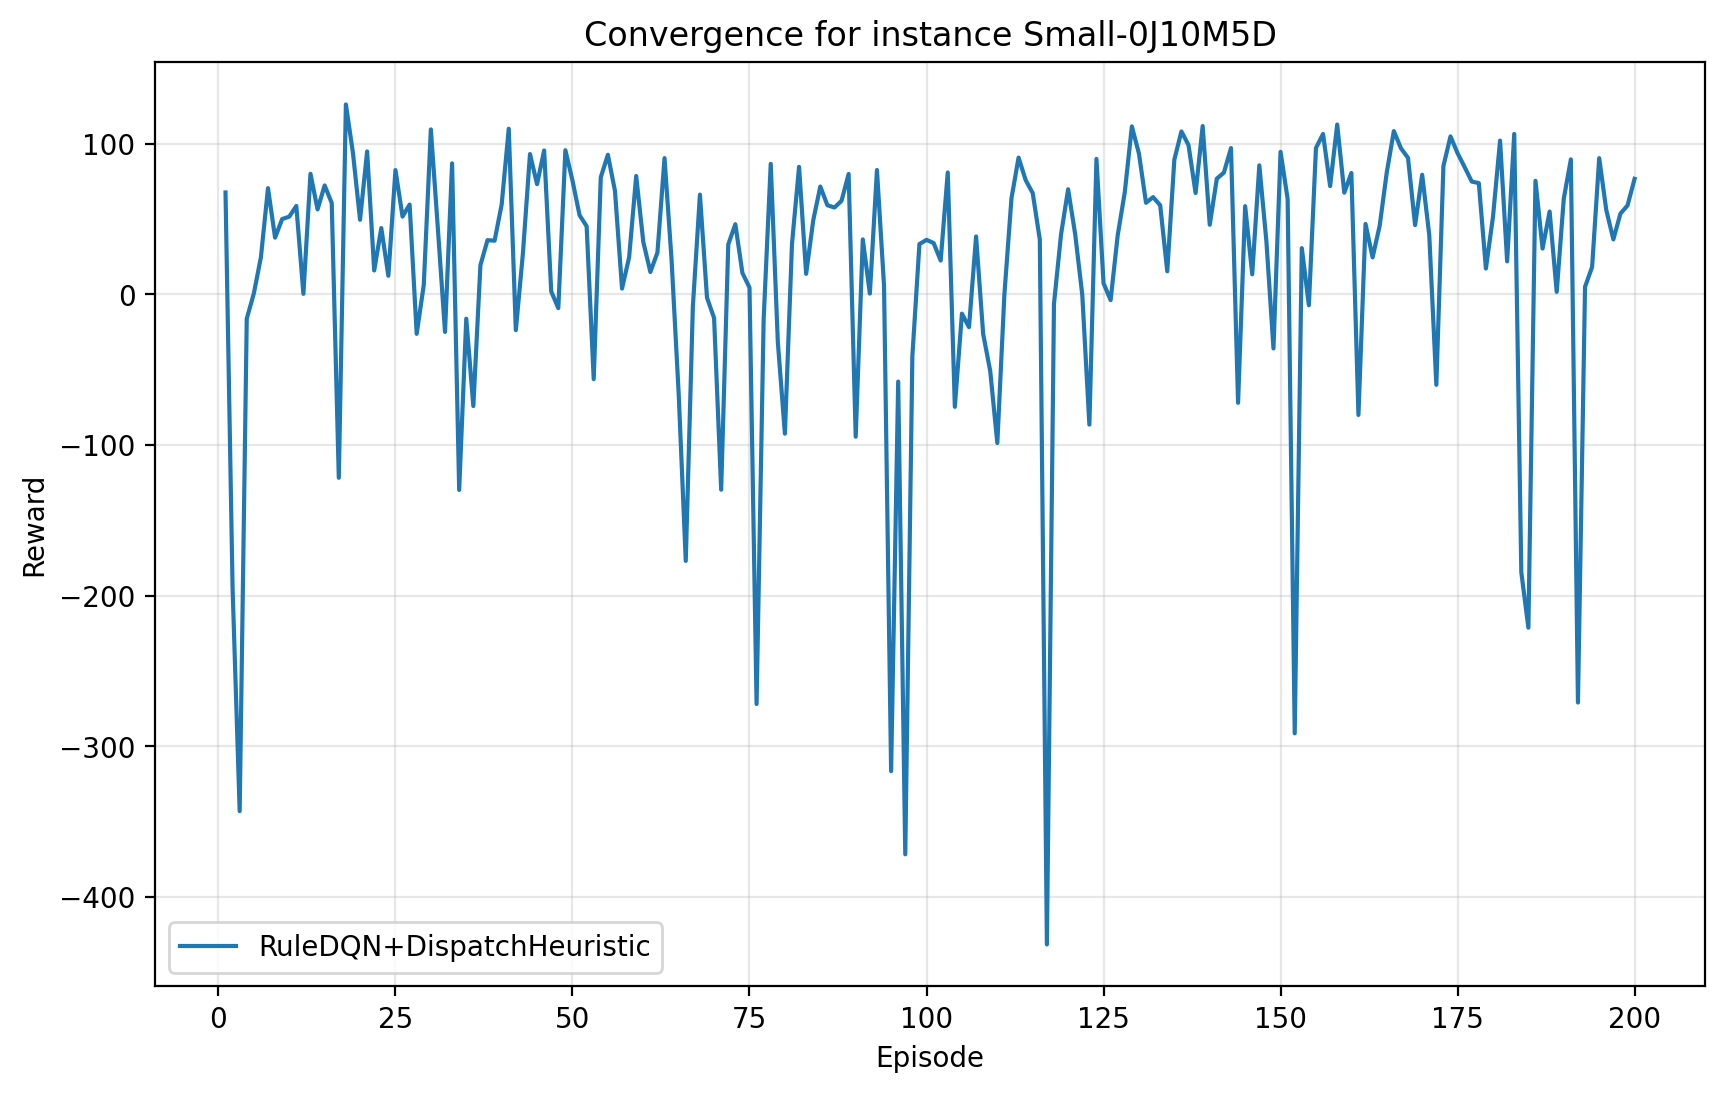
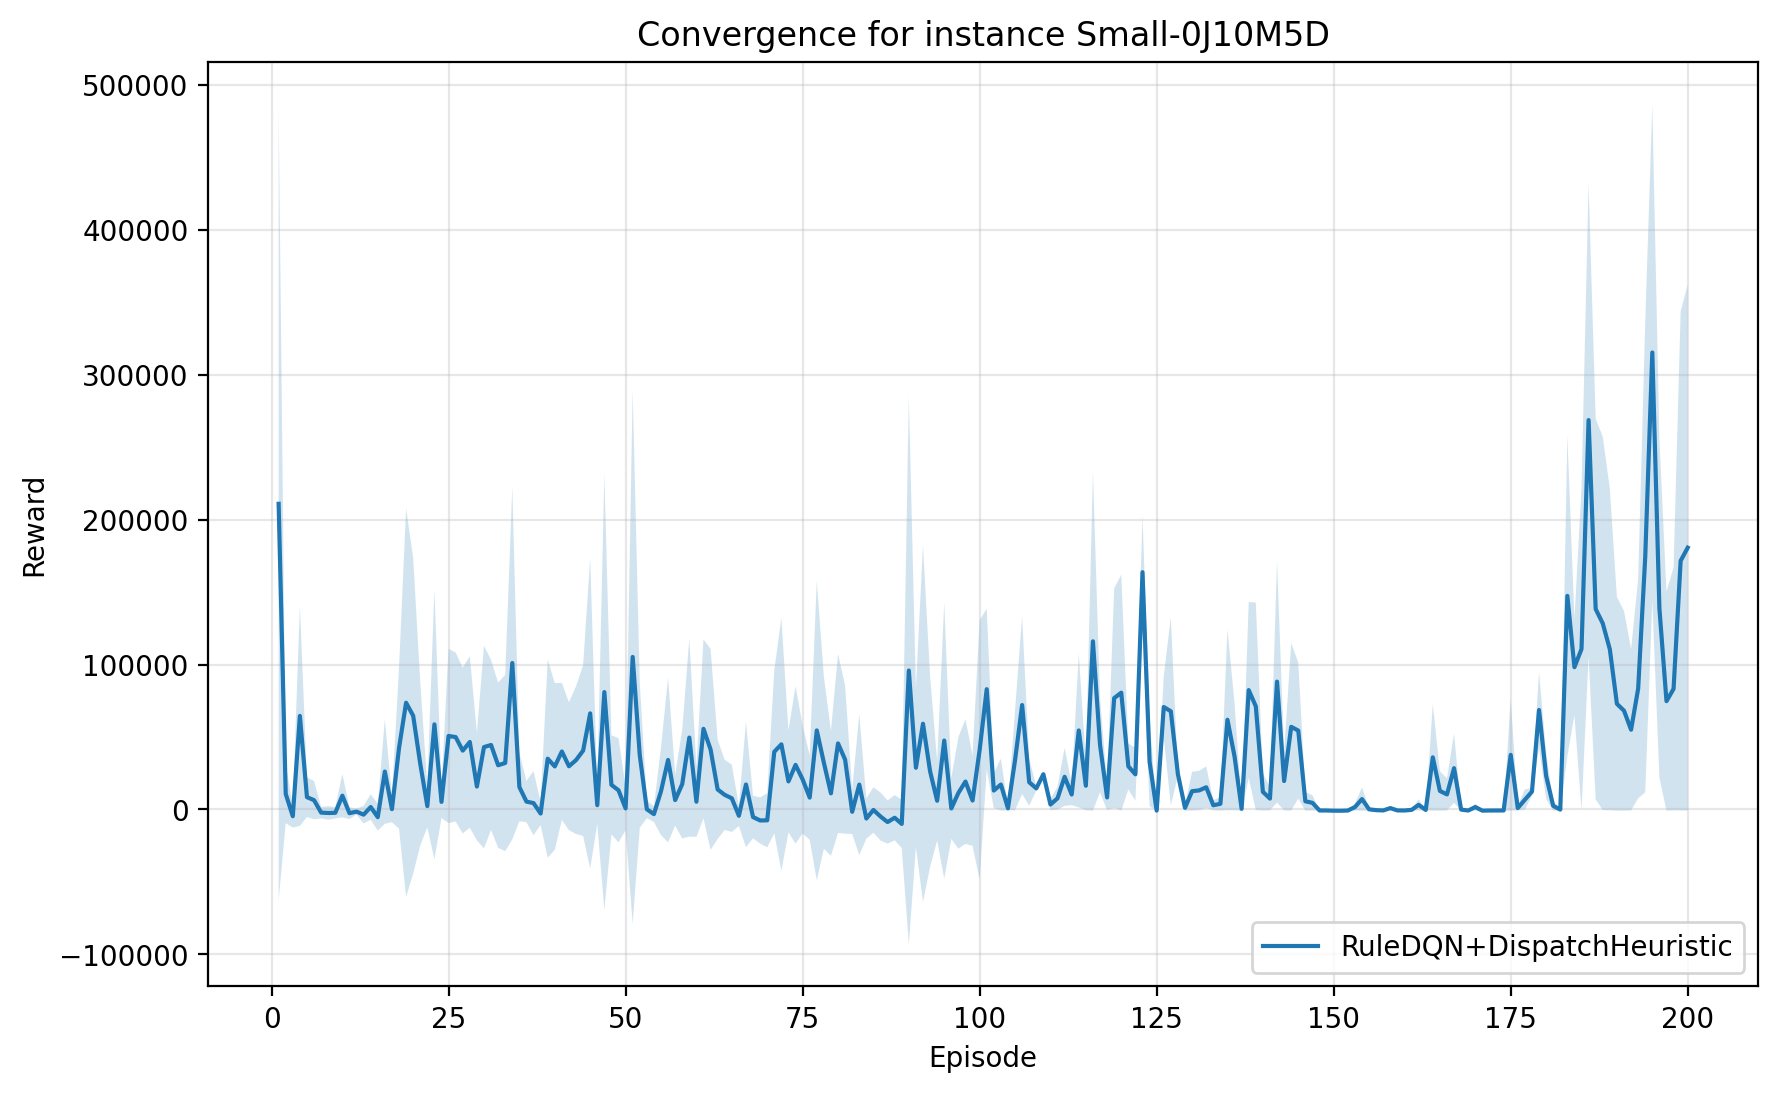
1

diff --git a/claude_code/environment.py b/claude_code/environment.py
@@ -319,103 +319,176 @@ class WarehouseEnvironment:
 
         return boolean_condition
 
+    
 
     def _calculate_reward(self, action) -> float:
         reward = 0.0
         debug_info = {}
-    
-        # 基础动作奖励
-        if 'wait' in action:
-            reward -= 1.0  # 增加等待动作的惩罚
-            debug_info['wait_penalty'] = -1.0
-        elif 'schedule' in action:
-            reward += 0.2  # 增加调度动作的奖励
-            debug_info['schedule_base'] = 0.2
-        elif 'dispatch' in action:
-            reward += 0.4  # 增加配送动作的奖励
-            debug_info['dispatch_base'] = 0.4
-    
-        # 调度质量奖励
-        if 'schedule' in action:
-            utilization = self.calculate_machine_utilization()
-            reward += 0.1 * utilization
-            debug_info['utilization'] = 0.1 * utilization
-    
-            job_progress = self.calculate_operation_progress_ratio()
-            reward += 0.3 * job_progress  # 增加作业推进奖励
-            debug_info['job_progress'] = 0.3 * job_progress
-    
-            load_balance = self.calculate_machine_load_variance()
-            reward -= 0.5 * load_balance
-            debug_info['load_balance_penalty'] = -0.5 * load_balance
-    
-        # 配送质量奖励
-        if 'dispatch' in action:
-            reward += 0.5 # 增加配送动作的奖励
-            debug_info['dispatch_reward'] = 0.5
-
-        # 计算作业延误（只计算一次，避免重复计算）
-        current_tardiness = 0
-        for job in self.completed_jobs:
-            tardiness = max(0, job.dispatched_time - job.due_date)
-            current_tardiness += tardiness
-            debug_info[f'job_{job.job_id}_tardiness'] = -tardiness
         
-        # 更新总延误（避免重复累加）
-        self.total_weighted_tardiness = current_tardiness
-        # 归一化total_weighted_tardiness
-        reward += 1/(1 + self.total_weighted_tardiness)
+        # 1. 核心业务目标奖励（权重最高）
+        # 延误惩罚 - 使用线性惩罚
+        current_tardiness = sum(max(0, job.dispatched_time - job.due_date) 
+                            for job in self.completed_jobs)
+        tardiness_penalty = -0.1 * current_tardiness  # 每单位延误惩罚0.1
+        reward += tardiness_penalty
+        debug_info['tardiness_penalty'] = tardiness_penalty
         
-        # 计算分段配送时间要求延迟成本（只计算配送商要求的惩罚，不重复计算作业延误）
-        current_tardy_penalty = 0
-        for distributor in self.distributors:
-            min_due_time = min(distributor.delivery_requirements.due_times) if distributor.delivery_requirements else float('inf')
-            if min_due_time < self.t:
-                # 计算每个配送商的延迟成本
-                requirement = distributor.delivery_requirements
-                for due_time, ratio, weight in zip(requirement.due_times, requirement.ratios, requirement.weights):
-                    # 在这个due_time之前完成的作业
-                    completed_jobs = [j for j in self.completed_jobs if j.dispatched_time <= due_time]
-                    completed_amount = sum(j.amount for j in completed_jobs)
-                    required_amount = ratio * distributor.total_amount
-                    if completed_amount < required_amount:
-                        penalty = (required_amount - completed_amount) * weight
-                        penalty_reward = (required_amount - completed_amount)/required_amount * weight
-                        reward -= penalty_reward
-                        debug_info[f'distributor_{distributor.distributor_id}_due_time_{due_time}'] = -penalty
-                        current_tardy_penalty += penalty
+        # 2. 配送要求满足度
+        delivery_satisfaction = self._calculate_delivery_satisfaction()
+        reward += 0.3 * delivery_satisfaction
+        debug_info['delivery_satisfaction'] = 0.3 * delivery_satisfaction
         
-        # 更新配送时间要求惩罚（避免重复累加）
-        self.tardy_penalty = current_tardy_penalty
-
-            
-            
-        # 即时操作奖励
-        if self.operation_completed_this_step:
-            reward += 0.5  # 增加工序完成奖励
-            debug_info['operation_complete'] = 0.5
-    
+        # 3. 资源利用率
+        utilization = self.calculate_machine_utilization()
+        reward += 0.2 * utilization
+        debug_info['utilization'] = 0.2 * utilization
+        
+        # 4. 进度推进（避免停滞）
+        if any(['schedule' in action, 'dispatch' in action]):
+            reward += 0.1  # 小奖励鼓励采取行动
+            debug_info['action_encouragement'] = 0.1
+        
+        # 5. 大事件奖励（稀疏但重要）
         if self.job_completed_this_step:
-            reward += 0.8  # 增加作业完成奖励
-            debug_info['job_complete'] = 0.8
+            reward += 0.5
+            debug_info['job_completion'] = 0.5
+        
+        debug_info['final_reward'] = reward
+        return reward
 
-        # 如果有作业被配送，增加奖励
-        if self.job_dispatching_this_step:
-            reward += 1.0  # 增加作业配送奖励
-            debug_info['job_dispatching'] = 2.0
+    def _calculate_delivery_satisfaction(self):
+        """计算配送要求满足度，返回0-1之间的值"""
+        total_satisfaction = 0
+        total_requirements = 0
+        
+        for distributor in self.distributors:
+            if not distributor.delivery_requirements:
+                continue
+                
+            requirement = distributor.delivery_requirements
+            distributor_satisfaction = 0
+            
+            for due_time, ratio, weight in zip(requirement.due_times, 
+                                            requirement.ratios, 
+                                            requirement.weights):
+                completed_jobs = [j for j in self.completed_jobs 
+                                if j.dispatched_time <= due_time]
+                completed_amount = sum(j.amount for j in completed_jobs)
+                required_amount = ratio * distributor.total_amount
+                
+                if completed_amount >= required_amount:
+                    satisfaction = 1.0  # 完全满足
+                else:
+                    satisfaction = completed_amount / required_amount  # 部分满足
+                    
+                distributor_satisfaction += satisfaction * weight
+            
+            total_satisfaction += distributor_satisfaction
+            total_requirements += 1
+        
+        return total_satisfaction / total_requirements if total_requirements > 0 else 0
+    # def _calculate_reward(self, action) -> float:
+    #     reward = 0.0
+    #     debug_info = {}
+    
+    #     # 基础动作奖励
+    #     if 'wait' in action:
+    #         reward -= 1.0  # 增加等待动作的惩罚
+    #         debug_info['wait_penalty'] = -1.0
+    #     elif 'schedule' in action:
+    #         reward += 0.2  # 增加调度动作的奖励
+    #         debug_info['schedule_base'] = 0.2
+    #     elif 'dispatch' in action:
+    #         reward += 0.4  # 增加配送动作的奖励
+    #         debug_info['dispatch_base'] = 0.4
+    
+    #     # 调度质量奖励
+    #     if 'schedule' in action:
+    #         utilization = self.calculate_machine_utilization()
+    #         reward += 0.1 * utilization
+    #         debug_info['utilization'] = 0.1 * utilization
+    
+    #         job_progress = self.calculate_operation_progress_ratio()
+    #         reward += 0.3 * job_progress  # 增加作业推进奖励
+    #         debug_info['job_progress'] = 0.3 * job_progress
+    
+    #         load_balance = self.calculate_machine_load_variance()
+    #        # reward -= 0.5 * load_balance
+    #         debug_info['load_balance_penalty'] = -0.5 * load_balance
+    
+    #     # 配送质量奖励
+    #     if 'dispatch' in action:
+    #         reward += 0.5 # 增加配送动作的奖励
+    #         debug_info['dispatch_reward'] = 0.5
 
-        if self.job_dispatched_this_step:
-            reward += 1.0  # 增加作业配送奖励
-            debug_info['job_dispatched'] = 1.0
+    #     # 计算作业延误（只计算一次，避免重复计算）
+    #     current_tardiness = 0
+    #     for job in self.completed_jobs:
+    #         tardiness = max(0, job.dispatched_time - job.due_date)
+    #         current_tardiness += tardiness
+    #         debug_info[f'job_{job.job_id}_tardiness'] = -tardiness
+        
+    #     # 更新总延误（避免重复累加）
+    #     self.total_weighted_tardiness = current_tardiness
+    #     # 归一化total_weighted_tardiness
+    #     reward += 1/(1 + self.total_weighted_tardiness)
+        
+    #     # 计算分段配送时间要求延迟成本（只计算配送商要求的惩罚，不重复计算作业延误）
+    #     current_tardy_penalty = 0
+    #     for distributor in self.distributors:
+    #         if distributor.calculated:
+    #             continue
+    #         max_due_time = max(distributor.delivery_requirements.due_times) if distributor.delivery_requirements else float('inf')
+    #         if max_due_time < self.t:
+    #             # 计算每个配送商的延迟成本
+    #             requirement = distributor.delivery_requirements
+    #             for due_time, ratio, weight in zip(requirement.due_times, requirement.ratios, requirement.weights):
+    #                 # 在这个due_time之前完成的作业
+    #                 completed_jobs = [j for j in self.completed_jobs if j.dispatched_time <= due_time]
+    #                 completed_amount = sum(j.amount for j in completed_jobs)
+    #                 required_amount = ratio * distributor.total_amount
+    #                 distributor.calculated = True
+    #                 if completed_amount < required_amount:
+    #                     penalty = (required_amount - completed_amount) * weight
+    #                     penalty_reward = (required_amount - completed_amount)/required_amount * weight
+    #                     reward -= penalty_reward
+    #                     debug_info[f'distributor_{distributor.distributor_id}_due_time_{due_time}'] = -penalty
+    #                     current_tardy_penalty += penalty
+    #                 else:
+    #                     debug_info[f'distributor_{distributor.distributor_id}_due_time_{due_time}'] = 0
+    #                     #reward +=  (completed_amount - required_amount)  # 按时完成奖励
+        
+    #     # 更新配送时间要求惩罚（避免重复累加）
+    #     self.tardy_penalty = current_tardy_penalty
+
+            
+            
+    #     # 即时操作奖励
+    #     if self.operation_completed_this_step:
+    #         reward += 0.5  # 增加工序完成奖励
+    #         debug_info['operation_complete'] = 0.5
     
-        # 不限制奖励范围
-        final_reward = reward
-        debug_info['final_reward'] = final_reward
+    #     if self.job_completed_this_step:
+    #         reward += 0.8  # 增加作业完成奖励
+    #         debug_info['job_complete'] = 0.8
+
+    #     # 如果有作业被配送，增加奖励
+    #     if self.job_dispatching_this_step:
+    #         reward += 1.0  # 增加作业配送奖励
+    #         debug_info['job_dispatching'] = 2.0
+
+    #     if self.job_dispatched_this_step:
+    #         reward += 1.0  # 增加作业配送奖励
+    #         debug_info['job_dispatched'] = 1.0
     
-        # 只在训练模式下显示详细的奖励分解（避免过多日志输出）
-        if hasattr(self.config, 'train_mode') and self.config.train_mode:
-            print("Reward breakdown:", debug_info)
-        return final_reward
+    #     # 不限制奖励范围
+    #     final_reward = reward
+    #     debug_info['final_reward'] = final_reward
+    
+    #     # 只在训练模式下显示详细的奖励分解（避免过多日志输出）
+    #     if hasattr(self.config, 'train_mode') and self.config.train_mode:
+    #         print("Reward breakdown:", debug_info)
+    #     return final_reward
     
 
     def calculate_machine_utilization(self) -> float:

diff --git a/claude_code/runner.py b/claude_code/runner.py
@@ -48,9 +48,9 @@ class PaperBasedInstanceGenerator:
         # 小规模算例 (40-100作业): 初始作业20, 机器10
         small_configs = [
             # 动态作业20, 配送商[5, 10, 15]
-            (40, 10, 0, 5),
+           #  (40, 10, 0, 5),
             # (20, 10, 20, 10),
-            # (20, 10, 20, 15),
+             (20, 10, 20, 15),
             # # 动态作业40, 配送商[5, 10, 15]
             # (20, 10, 40, 5),
             # (20, 10, 40, 10),
@@ -422,6 +422,6 @@ if __name__ == "__main__":
     # 直接调用，无需命令行参数
     print("🚀 启动批量实验...")
     run_batch_experiment(
-        algorithm="DQN",   # 修改为你要运行的法
+        algorithm="RuleDQN_DispatchHeuri",   # 修改为你要运行的法
         instance_type="all", # 可选: benchmark, all
     )

diff --git a/claude_code/data_structures.py b/claude_code/data_structures.py
@@ -81,5 +81,8 @@ class Distributor:
     completed_times: Dict[int, float]  # batchID到完成时间的映射
     overdue_times: Dict[int, int]  # batchID到逾期数量的映射
 
+    # 用于强化学习奖励函数的计算标识
+    calculated: bool = False
+
     status: str = "waiting"  # 状态: waiting, completed
 

diff --git a/claude_code/config.py b/claude_code/config.py
@@ -1,6 +1,6 @@
 class Config:
     train_mode = True
-    episodes =  200
+    episodes =  100
     seeds = [42]
     
     # RL training parameters
